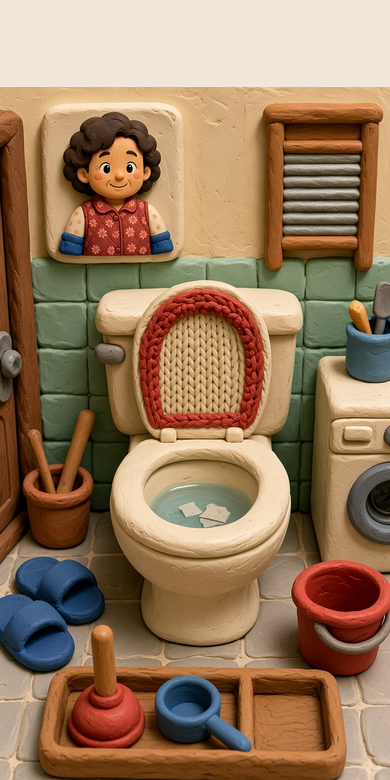
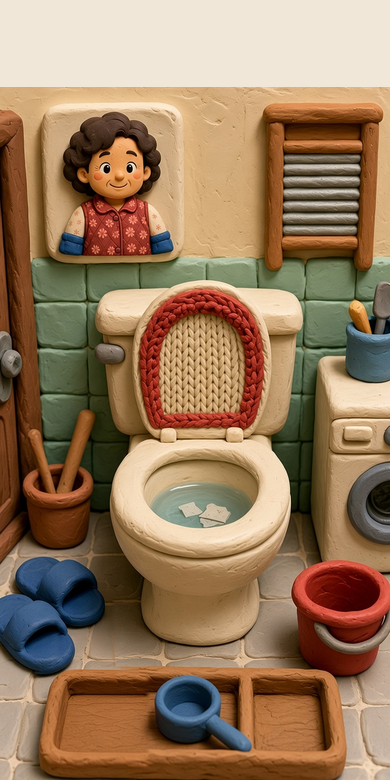
黏土样例换上空托盘底图，拖走后托盘不再留搋子
完整机位。自由拖动和提起画在前沿上面，贴住马桶后才到前沿下面并出阴影。9 帧锚点不动，正式游戏资产不动。

Changed region(s): [[0.0923, 0.7385, 0.4, 0.9846]]

diff --git a/qa/a-clay-demo.test.js b/qa/a-clay-demo.test.js
@@ -34,32 +34,37 @@ function fail(m){console.error('FAIL',m);process.exitCode=1;throw new Error(m);}
   const px=()=>p.evaluate(()=>{
     const c=document.getElementById('c'),d=c.getContext('2d'),k=Math.min(devicePixelRatio||1,3);
     const at=(x,y)=>{const q=d.getImageData(Math.round(x*k),Math.round(y*k),1,1).data;return [q[0],q[1],q[2],q[3]];};
-    return {tray:at(120,700),rim:at(199,550),bowl:at(199,500)};
+    return {tray:at(94,735),lip:at(199,560),rim:at(199,550)};
   });
+  const red=c=>c[0]>130&&c[1]<80&&c[2]<60;
   const away=await read();
-  const view=await p.evaluate(()=>ClayDemo.demo.view);
   const home=await p.evaluate(()=>ClayDemo.demo.homeGrip);
-  if(away.shadow||away.locked||away.frame!==0)fail('起始应在视窗外且无阴影 '+JSON.stringify(away));
-  if(away.grip[1]<view.y+view.h+24)fail('起始握持点进入马桶视窗 '+JSON.stringify(away.grip));
+  if(away.shadow||away.locked||away.frame!==0)fail('起始不应贴住 '+JSON.stringify(away));
+  if(Math.hypot(away.contact[0]-94,away.contact[1]-742)>1.5)fail('托盘起始接触点 '+JSON.stringify(away.contact));
   const dock=await px();
-  if(dock.tray[0]>dock.tray[1]+80)fail('托盘烤进去的搋子仍出现在画面 '+JSON.stringify(dock.tray));
+  if(!red(dock.tray))fail('托盘上没有独立搋子 '+JSON.stringify(dock.tray));
+  await p.screenshot({path:shot('a-clay-0-rest.png')});
   await p.mouse.move(home[0],home[1]);
   await p.mouse.down();
-  await p.mouse.move(140,560,{steps:6});
+  await p.mouse.move(199,455,{steps:6});
+  const over=await read();
+  const overPx=await px();
+  if(over.locked||over.shadow)fail('拖到前沿上不应先贴住 '+JSON.stringify(over));
+  if(!red(overPx.lip))fail('拖动时搋子应盖在前沿上 '+JSON.stringify(overPx.lip));
+  if(red(overPx.tray))fail('拖出后托盘还有搋子 '+JSON.stringify(overPx.tray));
   await p.screenshot({path:shot('a-clay-1-drag.png')});
-  const dragging=await read();
-  if(dragging.shadow)fail('拖入途中不应有接触阴影');
   await p.mouse.move(199,399,{steps:8});
   const seated=await read();
   if(!seated.locked||!seated.shadow)fail('没有贴上碗口 '+JSON.stringify(seated));
   if(Math.hypot(seated.contact[0]-199,seated.contact[1]-504)>0.6)fail('接触锚点漂移 '+JSON.stringify(seated.contact));
+  await p.screenshot({path:shot('a-clay-2-contact.png')});
   const grip0=seated.grip[1];
   await p.mouse.move(199,509,{steps:6});
   const pressed=await read();
   if(pressed.frame<1||pressed.frame>4)fail('按压没有落到压缩帧 '+JSON.stringify(pressed));
   if(Math.hypot(pressed.contact[0]-199,pressed.contact[1]-504)>0.6)fail('按压后接触点被握持点拽走 '+JSON.stringify(pressed));
   if(pressed.grip[1]-grip0<10)fail('压缩时握持点应下移 '+grip0+' '+pressed.grip[1]);
-  await p.screenshot({path:shot('a-clay-2-press.png')});
+  await p.screenshot({path:shot('a-clay-3-press.png')});
   const rim=await px();
   const rimErr=Math.abs(rim.rim[0]-187)+Math.abs(rim.rim[1]-149)+Math.abs(rim.rim[2]-105);
   if(rimErr>48)fail('前沿没有压住搋子 '+JSON.stringify(rim.rim));
@@ -72,14 +77,16 @@ function fail(m){console.error('FAIL',m);process.exitCode=1;throw new Error(m);}
   await p.waitForFunction(()=>{const s=ClayDemo.session;return s.bottom&&s.bt>=0.36&&s.bt<=0.46;});
   await p.mouse.move(199,429,{steps:3});
   const reb=await read();
-  await p.screenshot({path:shot('a-clay-3-rebound.png')});
+  await p.screenshot({path:shot('a-clay-4-rebound.png')});
   if(reb.hit!=='good')fail('回弹命中 '+JSON.stringify(reb));
   if(!reb.shadow)fail('回弹期间仍应贴住');
-  await p.mouse.move(home[0],home[1],{steps:8});
+  await p.mouse.move(300,650,{steps:8});
   const lifted=await read();
-  if(lifted.shadow||lifted.locked||Math.hypot(lifted.contact[0]-199,lifted.contact[1]-504)<120)fail('离开后阴影还在 '+JSON.stringify(lifted));
+  const liftPx=await px();
+  if(lifted.shadow||lifted.locked||Math.hypot(lifted.contact[0]-199,lifted.contact[1]-504)<80)fail('离开后阴影还在 '+JSON.stringify(lifted));
+  if(red(liftPx.tray))fail('提起后托盘残留 '+JSON.stringify(liftPx.tray));
   await p.mouse.up();
-  await p.screenshot({path:shot('a-clay-4-lift.png')});
+  await p.screenshot({path:shot('a-clay-5-lift.png')});
   const alpha=await p.evaluate(()=>{
     const im=ClayDemo.session&&document.querySelector('canvas');
     const src=ClayDemo.manifest.frames[0].file;

diff --git a/demo/a-clay/demo.js b/demo/a-clay/demo.js
@@ -171,7 +171,6 @@
     if (!report.ok) { showGate(report.errors); window.ClayDemo = { ok: false, report: report }; return; }
     gate.hidden = true;
     const session = createPlay(manifest, demo);
-    const view = demo.view;
     let last = performance.now();
     function pos(e) {
       const r = cv.getBoundingClientRect();
@@ -189,28 +188,24 @@
       last = now;
       g.setTransform(SC * DPR, 0, 0, SC * DPR, 0, 0);
       g.fillStyle = demo.dockColor; g.fillRect(0, 0, STAGE_W, STAGE_H);
-      g.save(); g.beginPath(); g.rect(view.x, view.y, view.w, view.h); g.clip();
       blit(images[manifest.fixture.background], 0, 0, STAGE_W, STAGE_H);
-      g.restore();
-      if (session.shadow) {
+      const lay = session.layout();
+      const tool = () => blit(images[manifest.frames[session.frame].file], lay.top[0], lay.top[1], manifest.nominalDisplayPx[0], manifest.nominalDisplayPx[1]);
+      const rim = () => blit(images[manifest.fixture.frontRim], 0, 0, STAGE_W, STAGE_H);
+      const shadow = () => {
+        if (!session.shadow) return;
         const sh = manifest.contactShadow;
         const dw = sh.displaySizePx[0], dh = sh.displaySizePx[1];
         const ax = sh.anchorPx[0] * dw / sh.canvasPx[0], ay = sh.anchorPx[1] * dh / sh.canvasPx[1];
         const t = manifest.fixture.targetContactPx;
         blit(images[sh.file], t[0] - ax, t[1] - ay, dw, dh);
-      }
-      const lay = session.layout();
-      blit(images[manifest.frames[session.frame].file], lay.top[0], lay.top[1], manifest.nominalDisplayPx[0], manifest.nominalDisplayPx[1]);
-      g.save(); g.beginPath(); g.rect(view.x, view.y, view.w, view.h); g.clip();
-      blit(images[manifest.fixture.frontRim], 0, 0, STAGE_W, STAGE_H);
-      g.restore();
+      };
+      if (session.locked) { shadow(); tool(); rim(); }
+      else { rim(); tool(); }
       if (session.down) {
         g.beginPath(); g.arc(session.finger[0], session.finger[1], 16, 0, 7);
         g.fillStyle = 'rgba(243,210,176,.92)'; g.fill(); g.lineWidth = 2; g.strokeStyle = '#5A4030'; g.stroke();
       }
-      g.fillStyle = '#5A4030'; g.font = '13px "Noto Sans CJK SC","PingFang SC",sans-serif';
-      g.fillText('视窗只含马桶，托盘已裁掉。', 16, 30);
-      g.fillText('背景仍烤着托盘搋子，缺空托盘层。不是正式场景。', 16, 50);
       requestAnimationFrame(frame);
     }
     requestAnimationFrame(frame);
